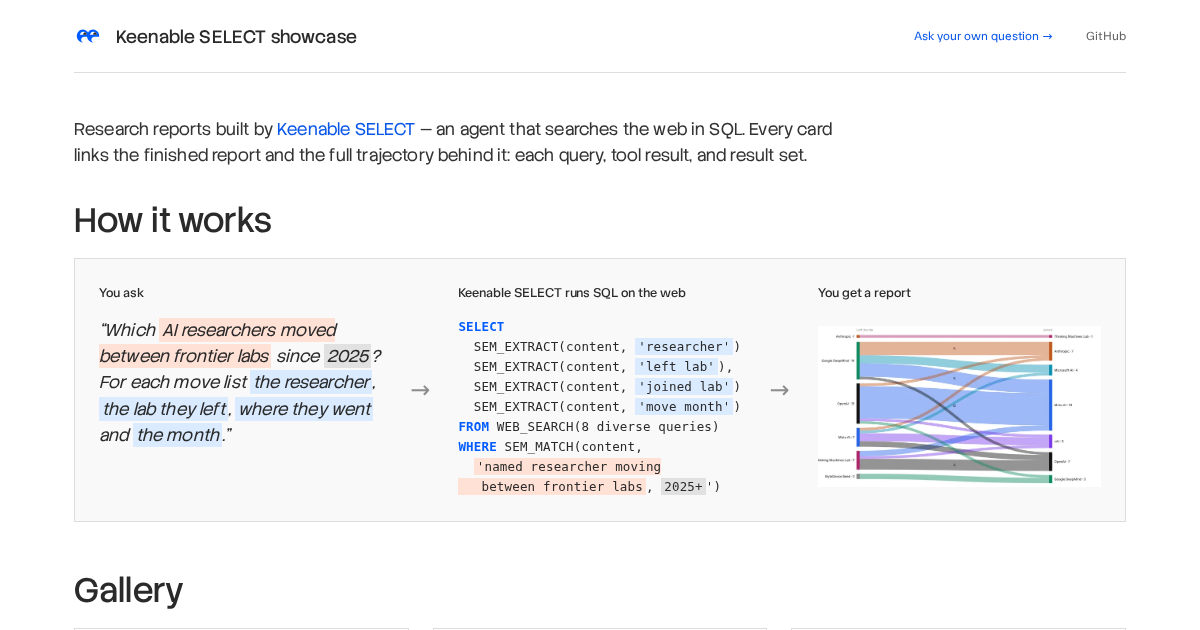
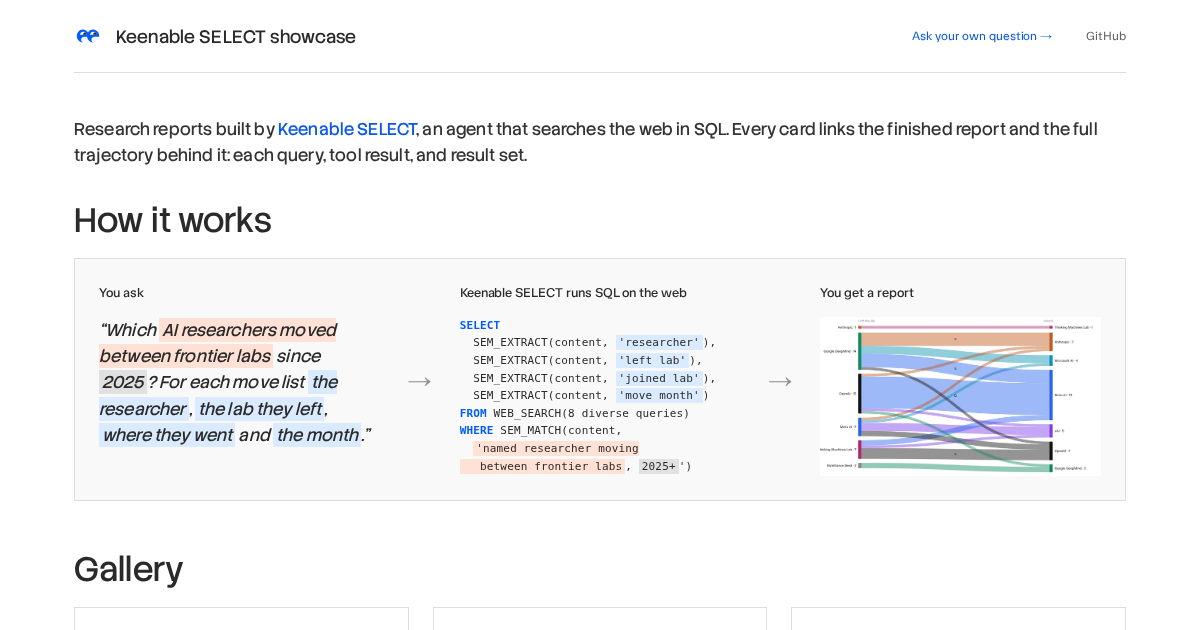
Align text blocks with the gallery, adopt needle's font stacks
Intro and doc span the gallery's full width from its left edge. Font
variables and the 400-weight body come from needle/dashboard.

diff --git a/scripts/build_site.py b/scripts/build_site.py
@@ -41,11 +41,19 @@ THUMB_HEIGHT = 480
 
 HLJS_JS = "https://cdnjs.cloudflare.com/ajax/libs/highlight.js/11.11.1/highlight.min.js"
 
-# Palette and type roles from keenable-webql/docs/report-style.md.
+# Palette and type from keenable-webql/docs/report-style.md and needle/dashboard.
 PAGE_CSS = """
+:root{
+  --font-display:"Stack Sans","Stack Sans Headline",-apple-system,BlinkMacSystemFont,
+    "Segoe UI","Helvetica Neue",Arial,sans-serif;
+  --font-body:"Stack Sans","Stack Sans Headline",-apple-system,BlinkMacSystemFont,
+    "Segoe UI","Helvetica Neue",Arial,sans-serif;
+  --font-utility:"TASA Orbiter",-apple-system,BlinkMacSystemFont,
+    "Segoe UI","Helvetica Neue",Arial,sans-serif;
+}
 *{box-sizing:border-box;margin:0;padding:0}
-body{background:#fff;color:#2A2A2A;font-family:'Stack Sans Headline',system-ui,sans-serif;
-  font-weight:300;font-size:16px;line-height:1.5;letter-spacing:.010em}
+body{background:#fff;color:#2A2A2A;font:400 15px/1.5 var(--font-body);
+  letter-spacing:.010em}
 .wrap{max-width:1100px;margin:0 auto;padding:0 24px 64px}
 a{color:#0A57E8;text-decoration:none}
 a:hover{text-decoration:underline}
@@ -56,12 +64,12 @@ header.site a.brand{display:flex;align-items:center;gap:14px}
 header.site a.brand:hover{text-decoration:none}
 header.site .name{font-weight:400;font-size:18px;color:#2A2A2A}
 header.site .spacer{flex:1}
-header.site a.gh{font-family:'TASA Orbiter',system-ui;font-size:12px;
+header.site a.gh{font-family:var(--font-utility);font-size:12px;
   letter-spacing:-.004em;color:#646464;margin-left:20px}
 header.site a.ask{color:#0A57E8}
-.intro{max-width:820px;margin:0 auto 36px;font-size:17px;color:#333}
+.intro{margin:0 0 36px;font-size:17px;color:#333}
 h2.section{font-weight:400;font-size:34px;line-height:.95;margin:0 0 22px}
-.doc{max-width:820px;margin:64px auto 0}
+.doc{margin:64px 0 0}
 .doc p{margin:0 0 14px;color:#333}
 .doc h3{font-weight:400;font-size:22px;margin:28px 0 12px}
 .doc ul{margin:0 0 14px 22px}
@@ -70,14 +78,14 @@ h2.section{font-weight:400;font-size:34px;line-height:.95;margin:0 0 22px}
   background:#F9F9F9;border:1px solid #DDDDDD;padding:1px 4px}
 .doc-scroll{overflow-x:auto;border:1px solid #DDDDDD;margin:0 0 14px}
 .doc table{border-collapse:collapse;width:100%;font-size:14px}
-.doc th{font-family:'TASA Orbiter',system-ui;font-weight:500;letter-spacing:-.004em;
+.doc th{font-family:var(--font-utility);font-weight:500;letter-spacing:-.004em;
   color:#8D8D8D;text-align:left;background:#F9F9F9}
 .doc th,.doc td{padding:8px 12px;border-bottom:1px solid #DDDDDD;vertical-align:top}
 .doc tbody tr:last-child td{border-bottom:0}
 .how{display:flex;align-items:stretch;gap:0;border:1px solid #DDDDDD;
   margin-bottom:52px;background:#F9F9F9}
 .how-step{flex:1;min-width:0;padding:24px;display:flex;flex-direction:column;gap:14px}
-.how-label{font-family:'TASA Orbiter',system-ui;font-size:13px;font-weight:500;
+.how-label{font-family:var(--font-utility);font-size:13px;font-weight:500;
   letter-spacing:-.004em;color:#2A2A2A;margin:0}
 .how-prompt{font-size:17px;line-height:1.55;font-style:italic;color:#2A2A2A}
 .how-step pre{margin:0;background:none;border:0;padding:0;font-size:11px;line-height:1.6;
@@ -97,7 +105,7 @@ h1.small{font-size:28px;line-height:1.05}
 h1{font-weight:400;font-size:52px;line-height:.9;letter-spacing:0;
   margin-bottom:20px;max-width:900px}
 .sub{color:#646464;margin-bottom:44px;max-width:700px}
-.label{font-family:'TASA Orbiter',system-ui;font-size:12px;letter-spacing:-.004em;
+.label{font-family:var(--font-utility);font-size:12px;letter-spacing:-.004em;
   color:#8D8D8D;text-transform:none}
 .cards{display:grid;grid-template-columns:repeat(auto-fill,minmax(320px,1fr));gap:24px}
 .card{background:#fff;border:1px solid #DDDDDD;padding:0 0 20px;
@@ -127,18 +135,18 @@ details pre{margin:0;border:0;border-top:1px solid #DDDDDD;max-height:420px;over
 .rs>.label{margin:0 0 10px}
 .rs-scroll{overflow-x:auto;border:1px solid #DDDDDD;margin-bottom:12px}
 .rs table{border-collapse:collapse;width:100%;font-size:12px;line-height:1.4}
-.rs th{font-family:'TASA Orbiter',system-ui;font-weight:500;letter-spacing:-.004em;
+.rs th{font-family:var(--font-utility);font-weight:500;letter-spacing:-.004em;
   color:#8D8D8D;text-align:left;background:#F9F9F9}
 .rs th,.rs td{padding:5px 10px;border-bottom:1px solid #DDDDDD;text-align:left;
   max-width:340px;white-space:nowrap;overflow:hidden;text-overflow:ellipsis}
 .rs tbody tr:last-child td{border-bottom:0}
 .btn{display:inline-block;background:#005CFF;color:#fff;padding:9px 16px;
-  font-family:'TASA Orbiter',system-ui;font-size:12px;letter-spacing:-.004em}
+  font-family:var(--font-utility);font-size:12px;letter-spacing:-.004em}
 .btn:hover{background:#0151E2;text-decoration:none}
 footer.site{margin-top:64px;padding-top:20px;border-top:1px solid #DDDDDD;
   display:flex;align-items:center;gap:20px}
 footer.site img{height:16px;display:block}
-footer.site a{font-family:'TASA Orbiter',system-ui;font-size:12px;
+footer.site a{font-family:var(--font-utility);font-size:12px;
   letter-spacing:-.004em;color:#646464}
 @media (max-width:640px){
   .wrap{padding:0 16px 48px}
